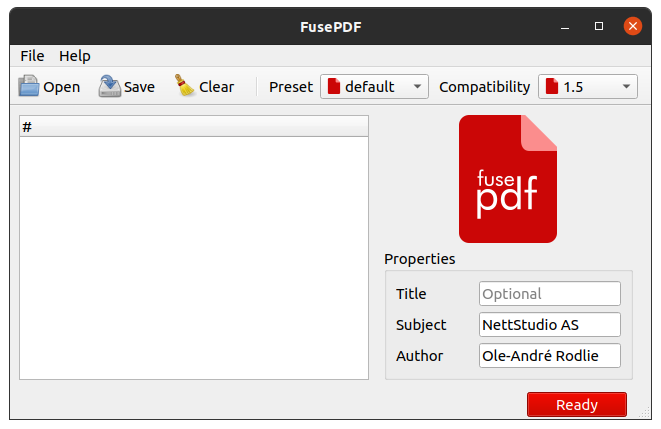
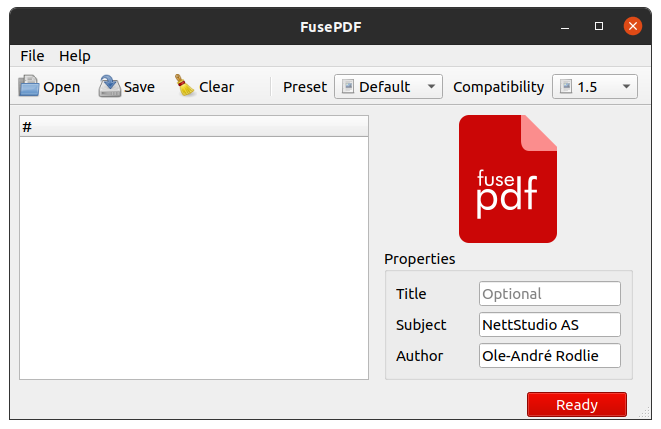
minor

Changed region(s): [[0.3933, 0.1818, 0.9077, 0.2424]]

diff --git a/fusepdf.cpp b/fusepdf.cpp
@@ -149,7 +149,7 @@ const QString FusePDF::makeCommand(const QString &filename)
     if (!ui->compat->currentText().isEmpty() && ui->compat->currentText() != "default") {
         command.append(QString(" -dCompatibilityLevel=%1").arg(ui->compat->currentText()));
     }
-    command.append(QString(" -dPDFSETTINGS=/%1").arg(ui->preset->currentText()));
+    command.append(QString(" -dPDFSETTINGS=/%1").arg(ui->preset->currentText().toLower()));
     command.append(" -dNOPAUSE -dBATCH -dDetectDuplicateImages -dCompressFonts=true");
     /*if (ui->dpiCheck->isChecked()) {
         command.append(QString(" -r%1").arg(ui->dpi->value()));
@@ -172,6 +172,7 @@ const QString FusePDF::makeCommand(const QString &filename)
 
     command.append(QString(" -c \"[%1/DOCINFO pdfmark\"").arg(marks));
 
+    qDebug() << command;
     return command;
 }
 
@@ -250,7 +251,7 @@ void FusePDF::populateUI()
 {
     ui->compat->clear();
     QIcon docIcon(":/icons/document.png");
-    ui->compat->addItem(docIcon, "default");
+    //ui->compat->addItem(docIcon, "default");
     ui->compat->addItem(docIcon, "1.0");
     ui->compat->addItem(docIcon, "1.1");
     ui->compat->addItem(docIcon, "1.2");
@@ -261,11 +262,11 @@ void FusePDF::populateUI()
     ui->compat->addItem(docIcon, "1.7");
 
     ui->preset->clear();
-    ui->preset->addItem(docIcon, "default");
-    ui->preset->addItem(docIcon, "prepress");
-    ui->preset->addItem(docIcon, "ebook");
-    ui->preset->addItem(docIcon, "screen");
-    ui->preset->addItem(docIcon, "printer");
+    ui->preset->addItem(docIcon, "Default");
+    ui->preset->addItem(docIcon, "Prepress");
+    ui->preset->addItem(docIcon, "eBook");
+    ui->preset->addItem(docIcon, "Screen");
+    ui->preset->addItem(docIcon, "Printer");
 }
 
 void FusePDF::loadSettings()
@@ -408,7 +409,7 @@ void FusePDF::loadOptions()
     settings.beginGroup("options");
     //ui->dpi->setValue(settings.value("dpi", 720).toInt());
     ui->compat->setCurrentText(settings.value("compat", "1.5").toString());
-    ui->preset->setCurrentText(settings.value("preset", "default").toString());
+    ui->preset->setCurrentText(settings.value("preset", "Default").toString());
     ui->actionShow_log->setChecked(settings.value("showLog", false).toBool());
     ui->actionAuto_Sort->setChecked(settings.value("autoSort", false).toBool());
     ui->actionRemember_meta_author->setChecked(settings.value("metaAuthor", true).toBool());
